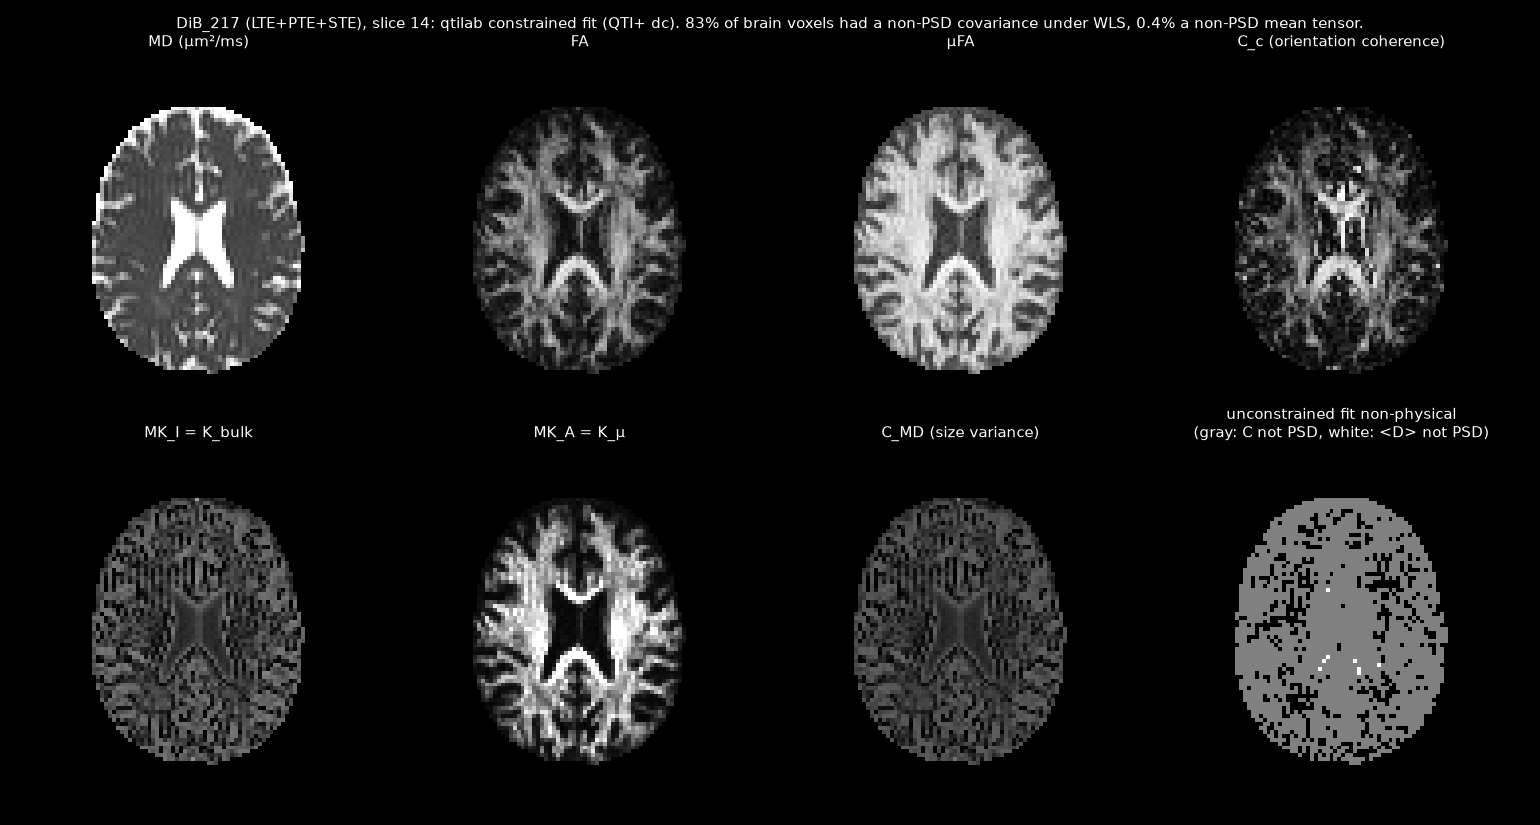
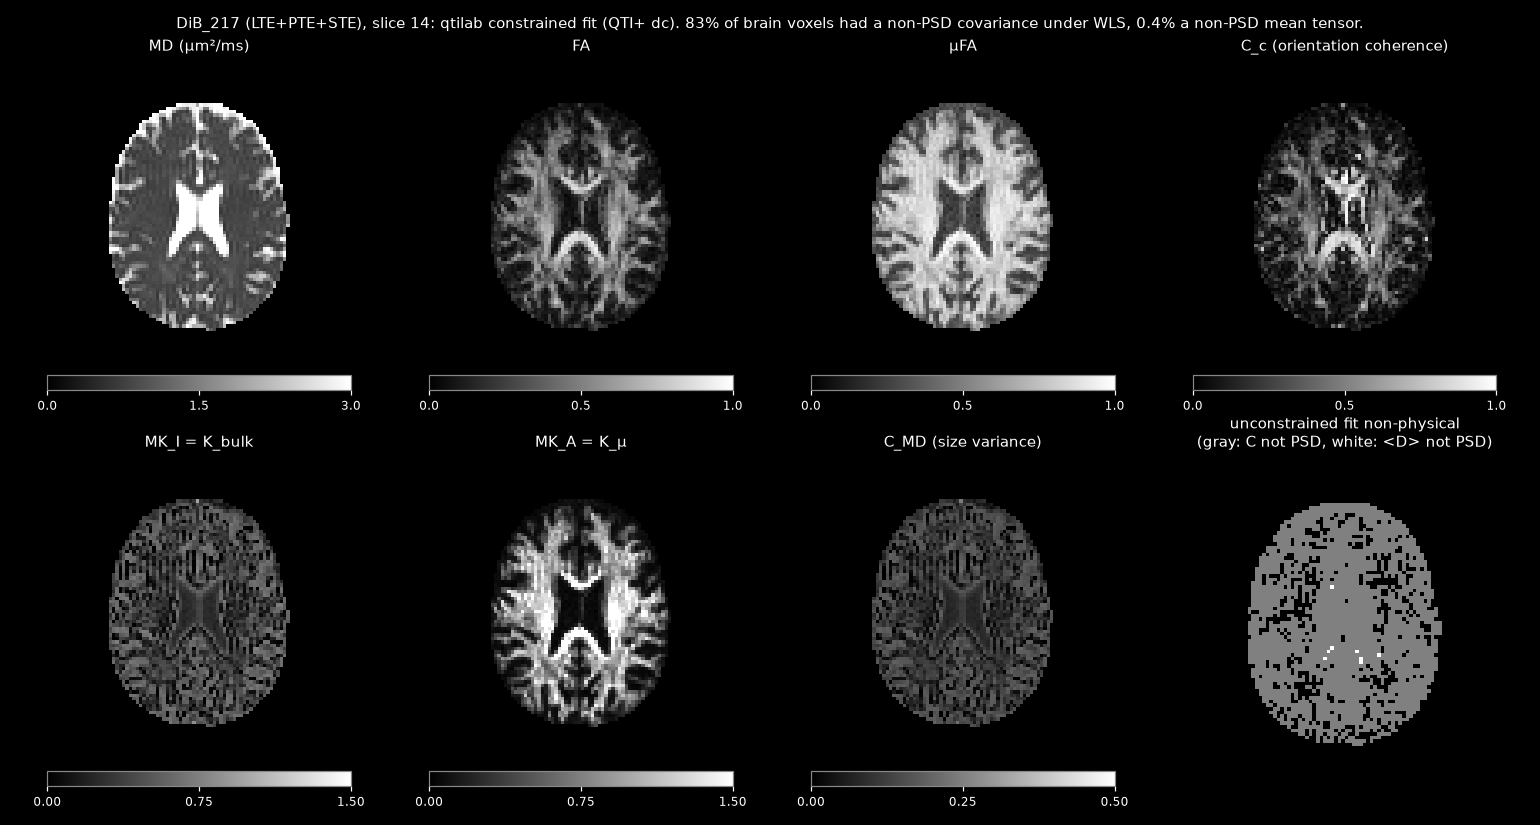
Colorbars on the map figures (DiB maps, posterior maps, H4)
Each panel of maps.py, posterior_maps_hhs.py and h4_lte_only.py gets a
horizontal colorbar with its range, so the gray-scale ranges and the
sign of the red-blue difference maps can be read off the figure. The
categorical last panel of maps.py keeps its title as the key.

Figures regenerated: results/dib217_maps.png,
hhs_sub01_ses01_posterior_maps_v2_full.png (posterior unchanged) and
h4_lte_only.png (results JSON numerically identical to before).

diff --git a/scripts/maps.py b/scripts/maps.py
@@ -36,9 +36,13 @@ panels = [("MD (µm²/ms)", sc["md"].numpy(), (0, 3)), ("FA", sc["fa"].numpy(), 
 fig, axes = plt.subplots(2, 4, figsize=(14, 7.5), facecolor="black")
 for ax, (title, v, (lo, hi)) in zip(axes.ravel(), panels):
     im = vol(v)[:, :, z]
-    ax.imshow(np.rot90(im), cmap="gray", vmin=lo, vmax=hi)
+    h = ax.imshow(np.rot90(im), cmap="gray", vmin=lo, vmax=hi)
     ax.set_title(title, color="white", fontsize=10)
     ax.axis("off")
+    if not title.startswith("unconstrained"):          # the last panel is categorical; its title is the key
+        cb = fig.colorbar(h, ax=ax, orientation="horizontal", fraction=0.046, pad=0.02, ticks=[lo, (lo + hi) / 2, hi])
+        cb.ax.tick_params(colors="white", labelsize=8)
+        cb.outline.set_edgecolor("#888")
 fig.suptitle(f"DiB_217 (LTE+PTE+STE), slice {z}: qtilab constrained fit (QTI+ dc). "
              f"{100*neg_c.mean():.0f}% of brain voxels had a non-PSD covariance under WLS, "
              f"{100*neg_d.mean():.1f}% a non-PSD mean tensor.", color="white", fontsize=10)

diff --git a/scripts/h4_lte_only.py b/scripts/h4_lte_only.py
@@ -145,6 +145,10 @@ panels = [("tissue µFA, full protocol", pm["full"][:, iu], "gray", (0, 1)),
           ("posterior SD ratio, C_MD", sd["lte"][:, ic] / np.maximum(sd["full"][:, ic], 1e-6), "magma", (1, 3))]
 fig, axes = plt.subplots(2, 4, figsize=(15, 8), facecolor="black")
 for ax, (t, v, cm, (lo, hi)) in zip(axes.ravel(), panels):
-    ax.imshow(np.rot90(vol(v)[:, :, z]), cmap=cm, vmin=lo, vmax=hi); ax.set_title(t, color="white", fontsize=9); ax.axis("off")
+    im = ax.imshow(np.rot90(vol(v)[:, :, z]), cmap=cm, vmin=lo, vmax=hi)
+    ax.set_title(t, color="white", fontsize=9); ax.axis("off")
+    cb = fig.colorbar(im, ax=ax, orientation="horizontal", fraction=0.046, pad=0.02, ticks=[lo, (lo + hi) / 2, hi])
+    cb.ax.tick_params(colors="white", labelsize=8)
+    cb.outline.set_edgecolor("#888")
 fig.suptitle("H4: what linear encoding alone recovers (HHS sub-01 ses-01, slice 20)", color="white")
 plt.tight_layout(); plt.savefig(f"results/h4_lte_only{args.tag}.png", dpi=110, facecolor="black")

diff --git a/scripts/posterior_maps_hhs.py b/scripts/posterior_maps_hhs.py
@@ -107,9 +107,12 @@ panels = [
 fig, axes = plt.subplots(2, 4, figsize=(15, 8), facecolor="black")
 for ax, (title, v, (lo, hi)) in zip(axes.ravel(), panels):
     cmap = "RdBu_r" if lo < 0 else "gray"
-    ax.imshow(np.rot90(vol(v)[:, :, z]), cmap=cmap, vmin=lo, vmax=hi)
+    im = ax.imshow(np.rot90(vol(v)[:, :, z]), cmap=cmap, vmin=lo, vmax=hi)
     ax.set_title(title, color="white", fontsize=9)
     ax.axis("off")
+    cb = fig.colorbar(im, ax=ax, orientation="horizontal", fraction=0.046, pad=0.02, ticks=[lo, (lo + hi) / 2, hi])
+    cb.ax.tick_params(colors="white", labelsize=8)
+    cb.outline.set_edgecolor("#888")
 fig.suptitle(f"Hormone Health sub-{sub} ses-{ses}: posterior network {tag or 'v1'} (trained on simulation only, "
              f"{'whole brain, slice ' + str(z) + ' shown' if whole else 'CPU'})", color="white", fontsize=10)
 plt.tight_layout()
